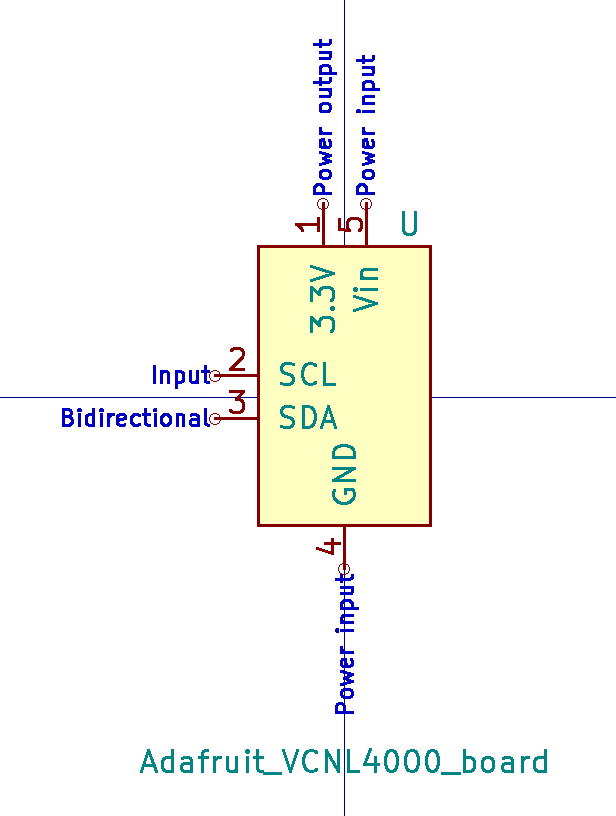
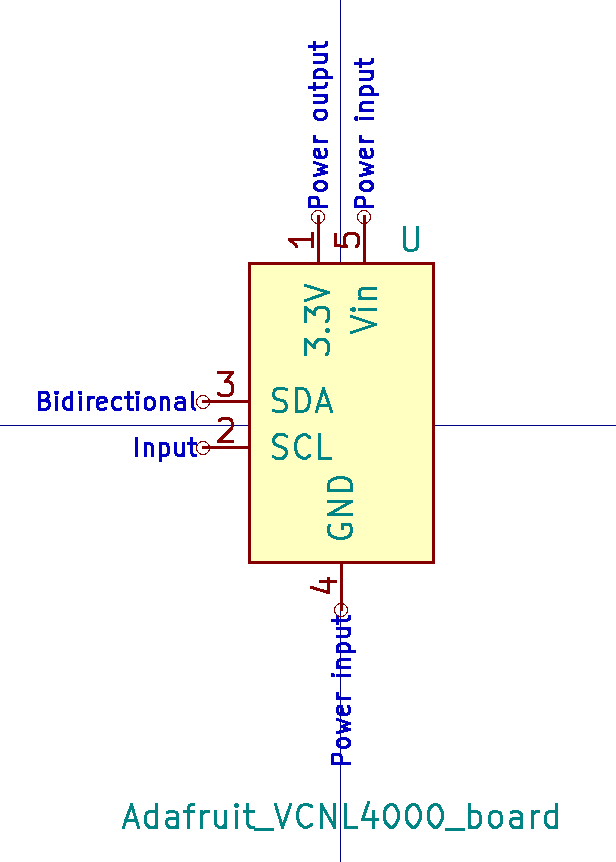
fix: rearrange I2C pins for symbol and fix image link

Changed region(s): [[0.0617, 0.0306, 0.7094, 0.8885], [0.1851, 0.9191, 0.9253, 0.9804]]

diff --git a/symbols/readme.md b/symbols/readme.md
@@ -55,7 +55,7 @@ Credit: [blippy on GitHub](https://github.com/blippy/rpi/tree/master/pico/kicad)
 
 ## SiLabs CP2102 USB to UART bridge
 
-![](../images/symbols/silabs_cp2012_usb_uart_bridge.png)
+![](../images/symbols/SiLabs_CP2012_USB_UART_Bridge.png)
 
 ## SiLabs Si7021 breakout board
 
